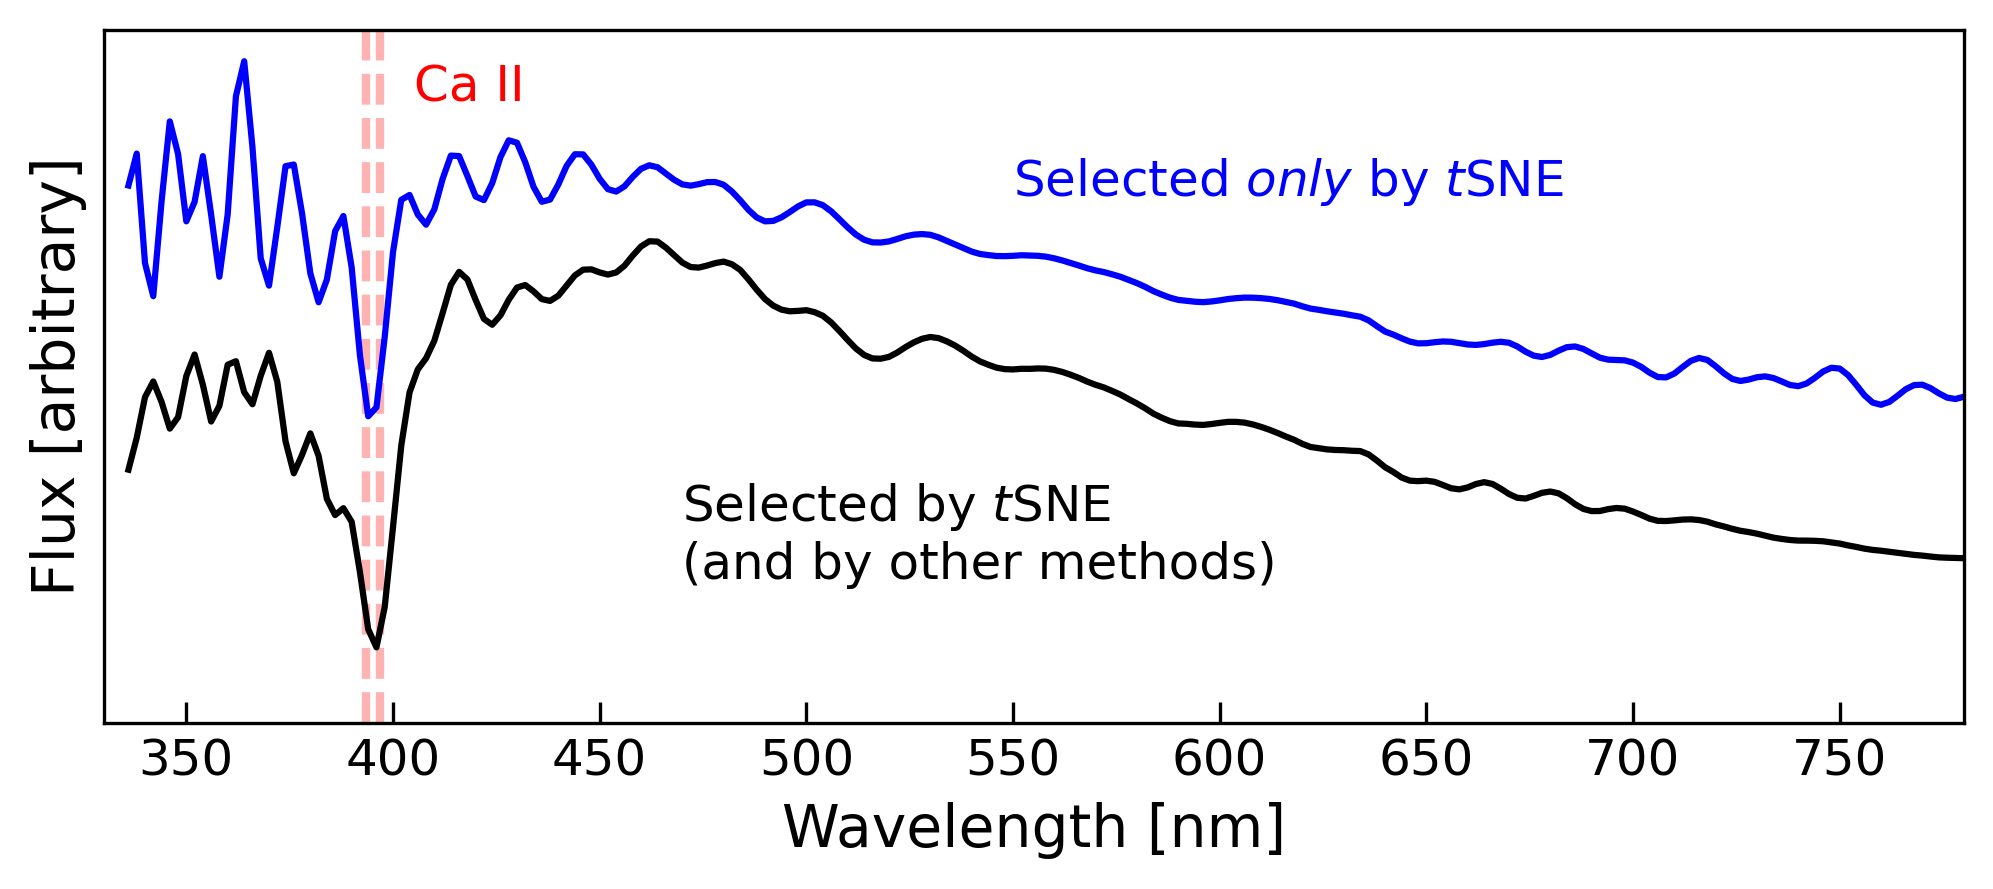
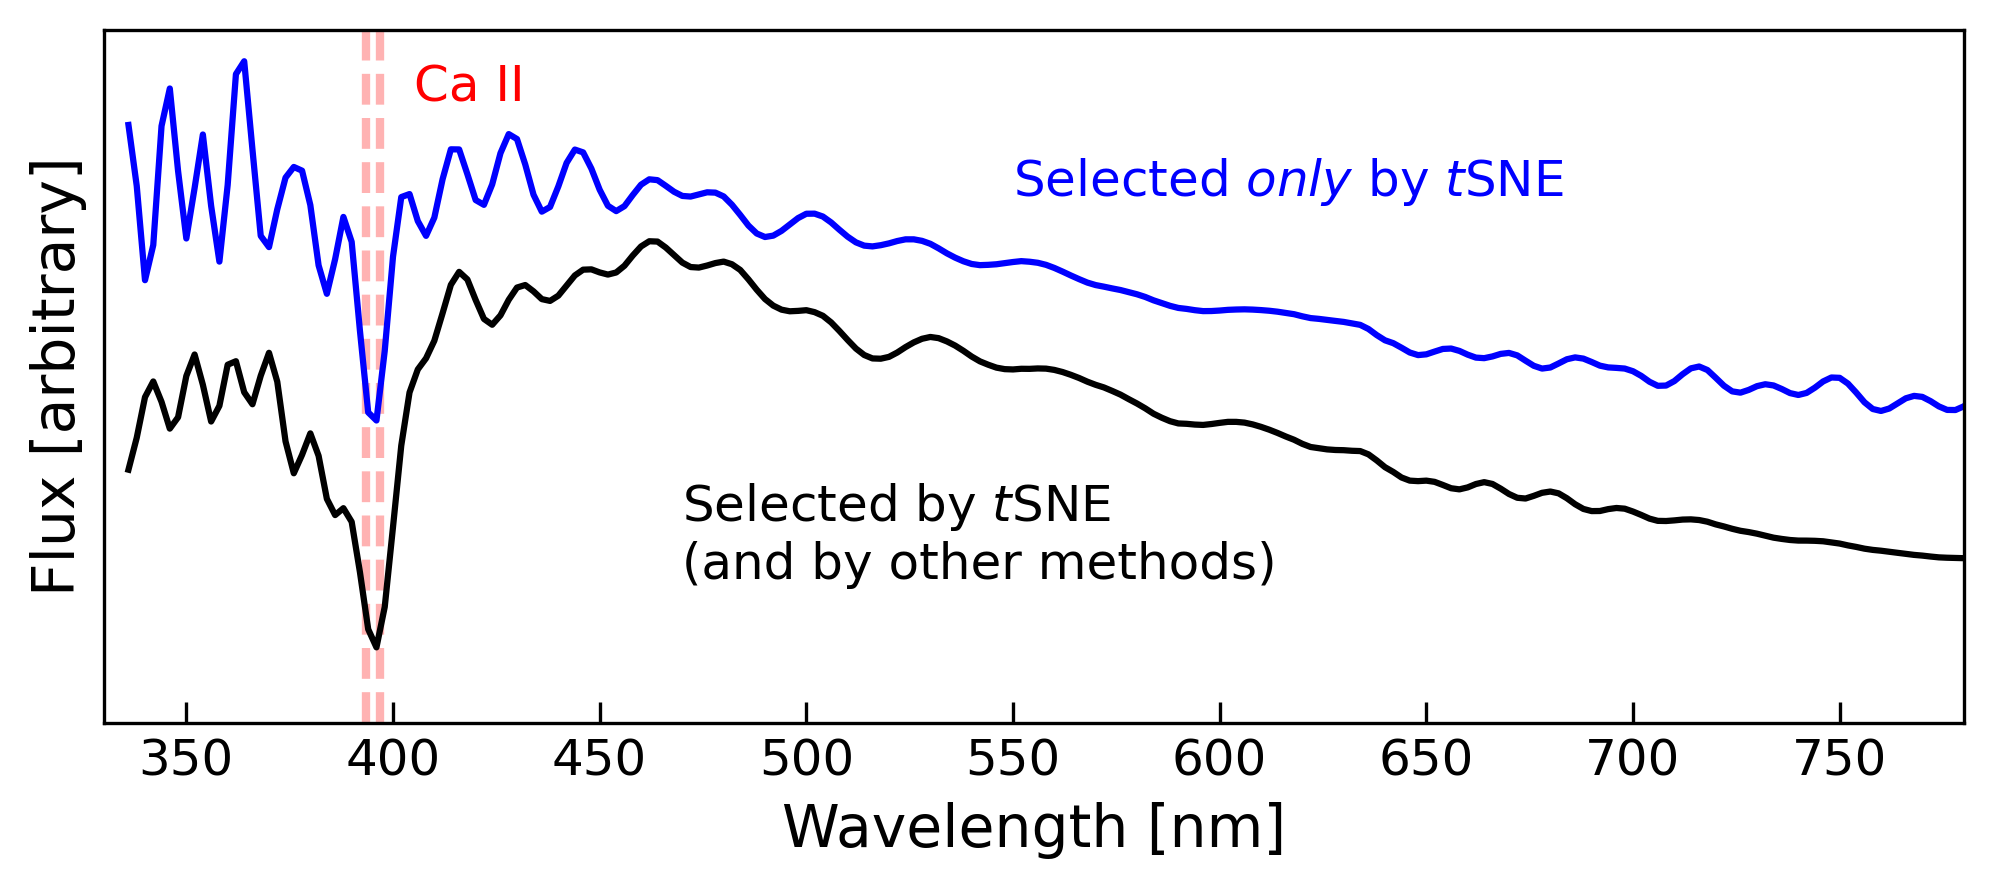
Incorporating classifications from Garcia-Zamora+25

Changed region(s): [[0.0622, 0.0911, 0.6844, 0.3948], [0.6844, 0.3645, 0.9955, 0.4859]]

diff --git a/src/scripts/create_fig_upset.py b/src/scripts/create_fig_upset.py
@@ -18,11 +18,11 @@ FIGURE_NUMBER = int(sys.argv[1])
 # Loading data
 
 # Random forests
-garciazamora23 = pd.read_csv(
-    "../data/external/previous_work/garciazamora23.csv", index_col=0
+garciazamora25 = pd.read_csv(
+    "../data/external/previous_work/garciazamora25.csv", index_col=0
 )
-random_forest_DZs = garciazamora23.index[
-    ["Z" in sp for sp in garciazamora23["SPPred"]]
+random_forest_DZs = garciazamora25.index[
+    ["Z" in sp for sp in garciazamora25["SPPred"]]
 ].values
 
 # Gradient boosted trees
@@ -71,7 +71,7 @@ fg, ax = plt.subplots(figsize=(8, 4))
 
 up = upsetplot.UpSet(
     upset_df,
-    min_subset_size=20,
+    min_subset_size=15,
     sort_categories_by="input",
     intersection_plot_elements=0,
 )
@@ -105,7 +105,7 @@ handles, labels = overlap_ax.get_legend_handles_labels()
 overlap_ax.legend(
     handles[::-1],
     labels[::-1],
-    loc="upper center",
+    loc="upper right",
     ncol=2,
 )
 

diff --git a/src/scripts/create_fig_coaddedspectrum.py b/src/scripts/create_fig_coaddedspectrum.py
@@ -26,11 +26,11 @@ tsne_pwds = np.concatenate((fl["cool_DZs"], fl["warm_DZs"]))
 tsne_unknown_ids = np.array([id_ for id_ in tsne_pwds if cp.is_polluted(id_) == -1])
 
 # Sources identified by just tSNE
-garciazamora23 = pd.read_csv(
-    "../data/external/previous_work/garciazamora23.csv", index_col=0
+garciazamora25 = pd.read_csv(
+    "../data/external/previous_work/garciazamora25.csv", index_col=0
 )
-random_forest_pwds = garciazamora23.index[
-    ["Z" in sp for sp in garciazamora23["SPPred"]]
+random_forest_pwds = garciazamora25.index[
+    ["Z" in sp for sp in garciazamora25["SPPred"]]
 ].values
 
 vincent24 = pd.read_csv("../data/external/previous_work/vincent24.csv", index_col=0)

diff --git a/README.md b/README.md
@@ -75,10 +75,10 @@ The members of these islands are decided objectively using DBSCAN (Ester+96), wh
 
 ### Comparing previous methods
 
-The classifications of García-Zamora+23 and Vincent+24 are, commendably, available online at the VizieR catalogues 'J/A+A/679/A127/catalog' and 'J/A+A/682/A5/catalog' respectively. The queries
+The classifications of García-Zamora+25 and Vincent+24 are, commendably, available online at the VizieR catalogues 'J/A+A/699/A3/table3' and 'J/A+A/682/A5/catalog' respectively. The queries
 ```sql
-SELECT GaiaDR3, SPPred
-FROM "J/A+A/679/A127/catalog"
+SELECT GaiaEDR3, SPPred
+FROM "J/A+A/699/A3/table3"
 ```
 and
 ```sql
@@ -114,6 +114,7 @@ Andrae+23
 Dufour+17
 Ester+96
 Gaia Collaboration, Montegriffo+22
+García-Zamora+25
 Gentile Fusillo+24
 Kao+24
 Lindegren+18
